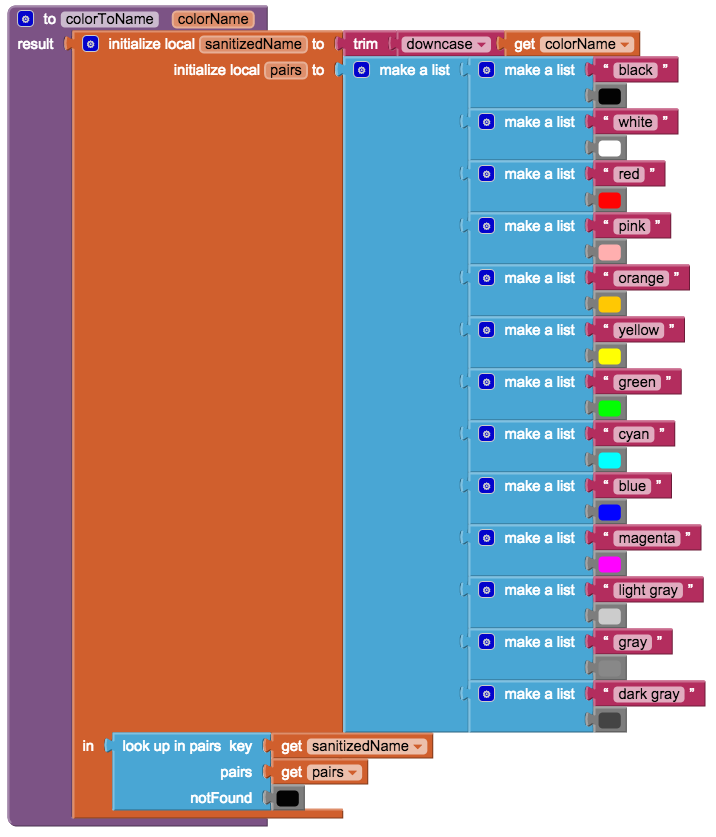
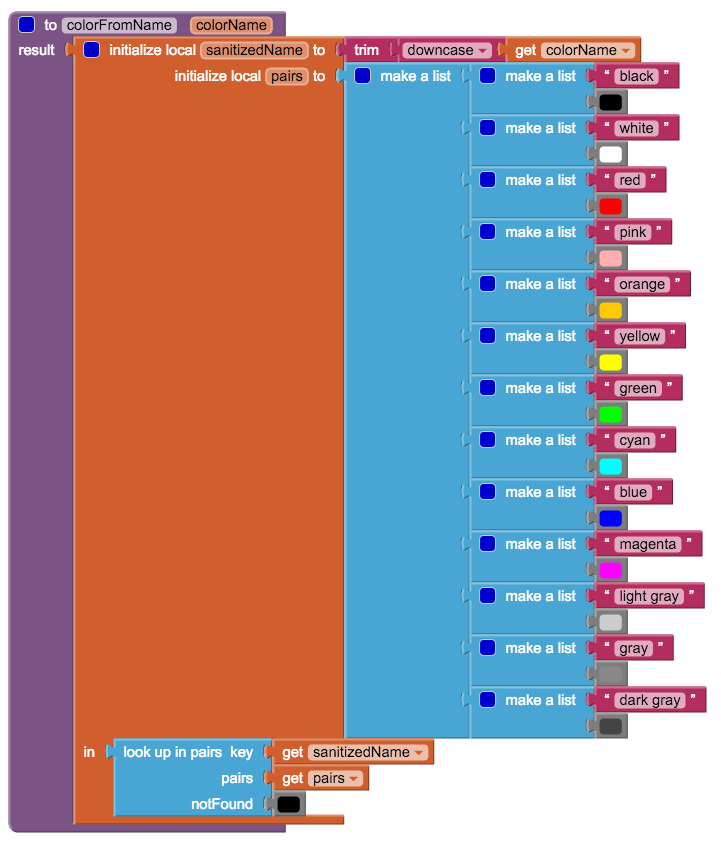
Fix mistakes and improve clarity in Canvas chapter

Changed region(s): [[0.0, 0.0, 1.0, 0.994]]

diff --git a/canvas/index.rst b/canvas/index.rst
@@ -1,12 +1,9 @@
 Canvas
 ======
 
-Imagine that you are an app inventor living in Podunka, IL. There happens to be a local folk singer
-there named Fiona Blueheart. Fiona recently released a new single called *Mustaches
-and Cat Eyes*. Like any forward-thinking indie musician, she decides to create a fun app to help promote her
-single.
+Imagine that you are an app inventor living in Podunka, IL. You are friends with Adrienne, a local gypsy jazz musician. Adrienne recently released a new single called *Mustaches and Cat Eyes*. Like any forward-thinking indie musician, she decides to create a fun app to help promote her single.
 
-Fiona is an avid user of App Inventor and has already made a rudimentary
+Adrienne is an avid user of App Inventor and has already made a rudimentary
 first version. Unfortunately, she needs to prepare for her upcoming tour
 and doesn't have time to finish it. Download :download:`MustachesAndCatEyes.aia`
 and :doc:`import the project into App Inventor </appendix/importing-projects/index>`.
@@ -20,46 +17,37 @@ take a picture and then set it as the background image of the
 ``Canvas``. If you drag your finger across ``Canvas``, black lines will
 be drawn (this happens regardless of whether you took a picture or not).
 However, this program is not yet complete! If you click on the Clear
-button, nothing happens. That means that you can't mess up when you're
-drawing the mustache, because you only have one chance to get it right!
+button, nothing happens. That means that you can't afford to mess up when you're drawing the mustache, because you only have one chance to get it right!
 
 .. exercise:: Add the blocks necessary to make it so that when the user clicks on the Clear button, whatever is drawn in the canvas is cleared.
 
-Now your user can try as many times as she likes to draw the perfect
-mustache. But how do we bestow cat eyes upon the subject of the photo?
+Now your user can try as many times as she likes to draw the perfect mustache. But how do we bestow cat eyes upon the subject of the photo?
 
-.. exercise:: Add some blocks so that when the user touches the canvas, a cat emoji is drawn at the point where she touched. Feel free to use this emoji: 😸
+.. exercise:: Add some blocks so that when the user touches the canvas, a cat emoji is drawn at the point where she touched. Note that you will need to use the ``Canvas1.Touched`` block. Feel free to use this emoji: 😸
 
     .. exercisehint:: Emojis, despite being graphical in nature, still count as text.
 
-    .. exercisehint:: You should use the ``Canvas.Touched`` block. Although ``Canvas.TouchDown`` and
-      ``Canvas.TouchUp`` would both basically work, only ``Canvas.Touched`` represents
-      the act of the user pressing down and then lifting up their finger on
-      the canvas.
+    .. exercisehint:: The ``x`` and ``y`` input variables inside ``Canvas1.Touched`` represent coordinates.
 
-Fiona is pretty pleased that the Clear button works, but she tells you
+Adrienne is pretty pleased that the Clear button works, but she tells you
 that there are a whole bunch of cat face emojis, and she wants to be able to
-choose which one to draw on the canvas.
+choose which one to draw on the canvas. For this, you'll need to drag a ``ListPicker`` into your screen. Rename ``ListPicker1`` to ``CatListPicker`` and set its ElementsFromString field to::
 
-.. exercise:: Add a ``ListPicker`` to your app that lets the user select which cat emoji
-  should be drawn when they touch the canvas. For reference, here all the
-  cat face emojis: 😸😹😺😻😼😽😾😿🙀.
+  😸,😹,😺,😻,😼,😽,😾,😿,🙀
 
-  .. exercisehint:: You won't need any of the yellow ``when`` blocks, and you only need to swap out one block in the Blocks interface.
+.. exercise:: Change your program so that when the user touches the canvas, the selected cat emoji is drawn.
 
-Fiona loves the new feature, and promptly sends you a picture of herself
-with a hearts cat for a right eye and a kissy cat for the left eye. But
-she tells you that you're not done yet, because she wants to be able to
-draw mustaches in other colors.
+  .. exercisehint:: Look for the property on ``CatListPicker`` that represents the text of the current selection.
+
+Adrienne loves the new feature, and promptly sends you a picture of herself with 😻 as her right eye and 😽 for the left eye. But she tells you that you're not done yet, because she wants to be able to draw mustaches in other colors.
 
 To solve the multicolor mustache problem, we need some kind of color
 picker widget. Unfortunately, such a widget doesn't exist in App
 Inventor. You can try implementing one on your own!
 
-.. exercise:: Use a ``ListPicker`` to create a rudimentary color picker. For now, just
-  allow the user to select the colors black, red, green, and blue. After
-  you've selected a color, dragging on the Canvas should produce lines of
-  that color.
+.. exercise:: Add another ``ListPicker`` called ``ColorListPicker`` to your screen. For now, set its ElementsFromString field to "black, red, green, blue". Add new blocks to your program so that after the user selects a color, she can drag on the Canvas to produce lines in that color.
+
+  .. exercisehint:: You'll need to use ``ListPicker1.AfterPicking`` and ``Canvas1.PaintColor``.
 
   .. exercisehint:: You'll need to use ``else if`` blocks.
 
@@ -75,9 +63,7 @@ As usual, there's a better way to do it. Download :download:`ColorPicker.aia` an
 .. image:: list-of-lists-blocks.png
 
 As you can see, it's a procedure whose distinguishing feature is that it
-uses a list of lists. Each sublist in the ``pairs`` list is actually a
-key-value pair. In other words, ``pairs`` is a lookup table.
-Conceptually, it's equivalent to a spreadsheet with two columns:
+uses a list of lists. It looks fatter than the previous procedure, but trust us, it uses far fewer blocks. Each sublist in the ``pairs`` list is actually a key-value pair. In other words, ``pairs`` is a lookup table. Conceptually, it's equivalent to a spreadsheet with two columns:
 
 .. image:: spreadsheet.png
 
@@ -90,22 +76,15 @@ block).
 So, this color picker seems decent enough, but it's in the wrong
 project. You could just rebuild it block-for-block in the Canvas project
 but that seems a bit laborious. This is the problem that the Backpack is
-designed to solve (you know, that thing in the upper right corner of the
-Blocks interface):
+designed to solve! It's that thing in the upper right corner of the Blocks interface:
 
 .. image:: backpack.png
 
-Drag the ``colorFromName`` procedure block and the
-``ColorPicker.AfterPicking`` block into the Backpack. Now, select My
-Projects from the menu and go back to the Canvas project. In Blocks,
-drag both blocks from the Backpack into your project. Run your app to
-make sure that you can draw with all those different colors.
+Drag the ``colorFromName`` procedure block and the ``ColorListPicker.AfterPicking`` block into the Backpack. Now, select My Projects from the menu and go back to the MustachesAndCatEyes project. In Blocks, drag both blocks from the Backpack into your project. Set the ElementsFromString field of ``ColorListPicker`` to::
 
-Yay, Fiona is happy with her app and it's a big hit (at least among the
-residents of Podunka). One day, Aunt Polly calls you up and says that
-she wants to draw a beige mustache on her cockerdoodle and could you
-please add beige as a color choice. A few hours later, you get a text
-from Puddles the cockerdoodle requesting the addition of turquoise.
+  Black, White, Red, Pink, Orange, Yellow, Green, Cyan, Blue, Magenta, Light Gray, Gray, Dark Gray
+
+Run your app to make sure that you can draw with all those different colors. Yay! Adrienne is happy with her app and it's a big hit (at least among the residents of Podunka). One day, your Aunt Sarah calls you up and says that she wants to draw a beige mustache on her cockerdoodle and could you please add beige as a color choice. A few hours later, you get a text from Puddles the cockerdoodle requesting the addition of turquoise.
 
 .. exercise:: Add beige and turquoise to the color picker. Note that neither of these colors is built-in.
 
